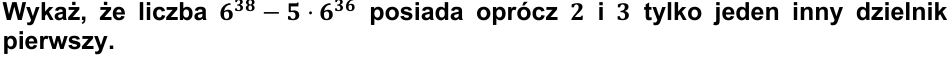
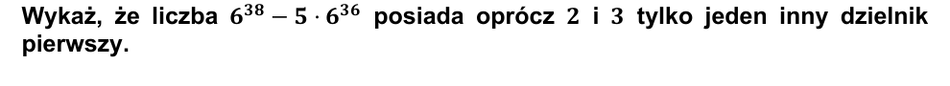
Improve MP checkpoint test answers and mobile layout

Changed region(s): [[0.0, 0.0, 1.0, 0.3562], [0.0, 0.3836, 0.1526, 0.7397]]

diff --git a/zadania.html b/zadania.html
@@ -770,6 +770,30 @@ body.focus-mode .container {
 
 body.focus-mode .focus-toggle {
     top: 16px;
+    width: 34px;
+    min-height: 34px;
+    padding: 0;
+    border-color: #d5dce4;
+    background: rgba(255, 255, 255, 0.9);
+    color: #536273;
+    box-shadow: none;
+    font-size: 0;
+    opacity: 0.48;
+}
+
+body.focus-mode .focus-toggle::after {
+    content: "×";
+    font-size: 22px;
+    font-weight: 500;
+    line-height: 1;
+}
+
+body.focus-mode .focus-toggle:hover,
+body.focus-mode .focus-toggle:focus-visible {
+    border-color: #8b9baa;
+    background: #ffffff;
+    color: var(--navy);
+    opacity: 1;
 }
 
 body.focus-mode .tasks-layout {
@@ -1189,13 +1213,15 @@ body.focus-mode .task-card {
     align-items: center;
     justify-content: center;
     min-width: 48px;
+    height: 28px;
     border: 1px solid var(--line);
     border-radius: 999px;
     background: rgba(255,255,255,0.78);
     color: var(--muted);
     font-size: 12px;
     font-weight: 700;
-    padding: 5px 9px;
+    line-height: 1;
+    padding: 0 9px;
 }
 
 .task-image-stack {
@@ -1966,6 +1992,16 @@ html.task-video-open {
 .input-answer-form {
     display: grid;
     gap: 10px;
+}
+
+.input-answer-example {
+    margin: 0;
+    padding: 8px 10px;
+    border-left: 3px solid #8eb5de;
+    background: #f4f8fc;
+    color: var(--muted);
+    font-size: 12px;
+    line-height: 1.45;
 }
 
 .input-answer-grid {
@@ -3198,7 +3234,9 @@ footer {
         top: auto;
         right: auto;
         bottom: auto;
-        width: auto;
+        width: 32px;
+        min-height: 32px;
+        padding: 0;
         margin: 0;
     }
 
@@ -3508,6 +3546,149 @@ footer {
     .task-counter {
         padding: 3px 7px;
         font-size: 11px;
+    }
+}
+
+@media (orientation: landscape) and (max-height: 560px) and (max-width: 1000px) {
+    .container {
+        margin: 0 auto;
+        padding: 4px;
+    }
+
+    body.course-view .task-sidebar,
+    body.focus-mode .task-sidebar,
+    .mobile-course-footer {
+        display: none !important;
+    }
+
+    .tasks-layout {
+        display: block;
+    }
+
+    .task-card,
+    body.focus-mode .task-card {
+        min-height: 100dvh;
+        padding: 6px;
+        border-radius: 0;
+        box-shadow: none;
+    }
+
+    .test-mode-notice {
+        margin-bottom: 4px;
+        padding: 4px 8px;
+        font-size: 10px;
+        line-height: 1.25;
+    }
+
+    .progress-grid {
+        flex-wrap: nowrap;
+        gap: 4px;
+        margin-bottom: 4px;
+        padding: 2px 0;
+        overflow-x: auto;
+    }
+
+    .progress-grid .tile {
+        flex: 0 0 auto;
+    }
+
+    .top-row {
+        margin-bottom: 4px;
+    }
+
+    .focus-toggle {
+        position: static;
+        min-height: 30px;
+        padding: 4px 8px;
+        font-size: 10px;
+        box-shadow: none;
+    }
+
+    body.focus-mode .focus-toggle {
+        width: 30px;
+        min-height: 30px;
+        padding: 0;
+        font-size: 0;
+    }
+
+    .meta-box {
+        min-height: 30px;
+        margin-bottom: 4px;
+    }
+
+    .meta-section {
+        padding: 4px 7px;
+        font-size: 10px;
+        line-height: 1.1;
+    }
+
+    .points-badge {
+        height: 24px;
+        min-width: 44px;
+        padding: 0 7px;
+        font-size: 10px;
+    }
+
+    .task-image-stack {
+        gap: 4px;
+    }
+
+    .task-image {
+        width: 100%;
+        max-height: 25dvh;
+        padding: 4px;
+        object-fit: contain;
+        object-position: left center;
+    }
+
+    .task-instruction {
+        margin: 5px 0;
+        font-size: 11px;
+        line-height: 1.25;
+    }
+
+    .mcq {
+        gap: 5px;
+    }
+
+    .choice-btn,
+    .input-answer-field input,
+    .input-answer-field select,
+    .input-check-btn,
+    .action-group.navigation .action-btn {
+        min-height: 34px;
+        padding: 5px 8px;
+        font-size: 11px;
+    }
+
+    .input-answer-form,
+    .input-answer-grid {
+        gap: 5px;
+    }
+
+    .input-answer-field label,
+    .input-answer-example {
+        font-size: 10px;
+        line-height: 1.25;
+    }
+
+    .input-answer-example {
+        padding: 5px 7px;
+    }
+
+    .interaction-panel {
+        margin-top: 6px;
+    }
+
+    .task-actions {
+        grid-template-columns: 1fr;
+        gap: 4px;
+        padding-top: 4px;
+    }
+
+    .action-group.navigation {
+        grid-template-columns: repeat(2, minmax(0, 1fr));
+        padding-top: 0;
     }
 }
 </style>
@@ -4474,7 +4655,11 @@ function toggleFocusMode(){
     const button = document.getElementById("focusToggle");
 
     if(button){
-        button.innerText = focusMode ? "Wyjdź z trybu skupienia" : "Tryb skupienia";
+        const label = focusMode ? "Wyjdź z trybu skupienia" : "Tryb skupienia";
+
+        button.innerText = label;
+        button.title = label;
+        button.setAttribute("aria-label", label);
     }
 }
 
@@ -9344,12 +9529,20 @@ function setupInputTask(mcq){
     });
 
     const button = document.createElement("button");
+    const exampleText = String(currentTask?.inputExample || "").trim();
+    const example = exampleText ? document.createElement("p") : null;
+
+    if(example){
+        example.className = "input-answer-example";
+        example.textContent = exampleText;
+    }
 
     button.type = "submit";
     button.className = "action-btn answer input-check-btn";
     button.innerText = "Zatwierdź odpowiedź";
 
     form.appendChild(grid);
+    if(example) form.appendChild(example);
     form.appendChild(button);
     form.onsubmit = event => {
         event.preventDefault();
@@ -10063,7 +10256,7 @@ function checkInputAnswer(form){
         return;
     }
 
-    if(isCourseTask()){
+    if(isCourseTask() || currentTask?.activityType === "test"){
         showInputCorrection(inputs.map(input => input.value.trim()));
         addProgress("bad");
         return;
